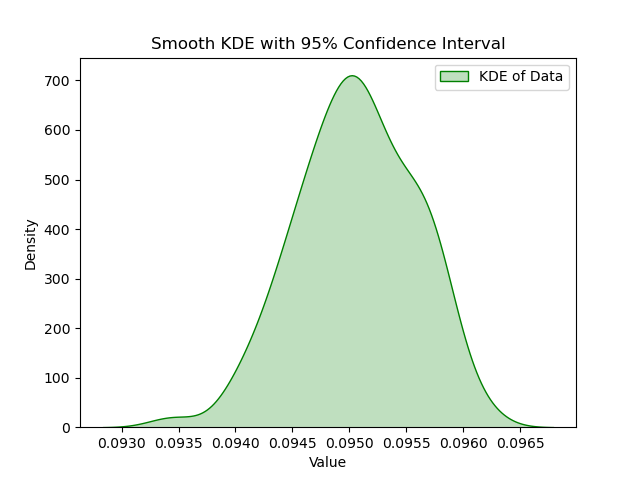
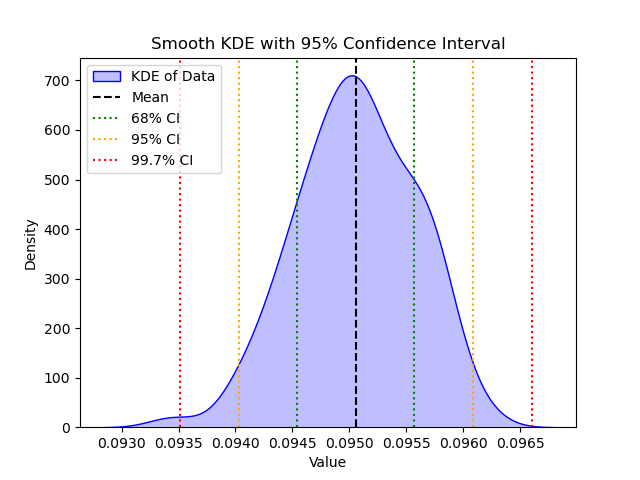
added the std to the plot

Changed region(s): [[0.1875, 0.1562, 0.8438, 0.9062], [0.125, 0.125, 0.375, 0.3438], [0.6875, 0.125, 0.875, 0.2188]]

diff --git a/src/metrics.py b/src/metrics.py
@@ -87,7 +87,8 @@ def calculate_confidence_intervals(bins=100):
             'mean': mean,
             'lower_bound': lower_bound,
             'upper_bound': upper_bound,
-            'includes_true_area': includes_true_area
+            'includes_true_area': includes_true_area,
+            'standard_deviation': np.std(areas)
         }
     
     pure_interval = calculate_interval(pure_areas)
@@ -100,13 +101,19 @@ def calculate_confidence_intervals(bins=100):
 
     for interval, label, area in zip(intervals, labels, areas):
         mean = interval['mean']
-        lower_bound = interval['lower_bound']
-        upper_bound = interval['upper_bound']
+        std_dev = interval['standard_deviation']
 
-        sns.kdeplot(area, color='green', fill=True, label='KDE of Data')
-        # plt.axvline(mean, color='blue', linestyle='--', label=f'Mean: {mean:.2f}')
-        # plt.axvline(lower_bound, color='red', linestyle='--', label=f'95% CI Lower: {lower_bound:.2f}')
-        # plt.axvline(upper_bound, color='red', linestyle='--', label=f'95% CI Upper: {upper_bound:.2f}')
+        sns.kdeplot(area, color='b', fill=True, label='KDE of Data')
+        plt.axvline(mean, color='k', linestyle='--', label='Mean')
+
+        plt.axvline(mean + std_dev, color='g', linestyle=':')
+        plt.axvline(mean + 2 * std_dev, color='orange', linestyle=':')
+        plt.axvline(mean + 3 * std_dev, color='r', linestyle=':')
+
+        plt.axvline(mean - std_dev, color='g', linestyle=':', label='68% CI')
+        plt.axvline(mean - 2 * std_dev, color='orange', linestyle=':', label='95% CI')
+        plt.axvline(mean - 3 * std_dev, color='r', linestyle=':', label='99.7% CI')
+
 
         plt.legend()
         plt.xlabel('Value')
